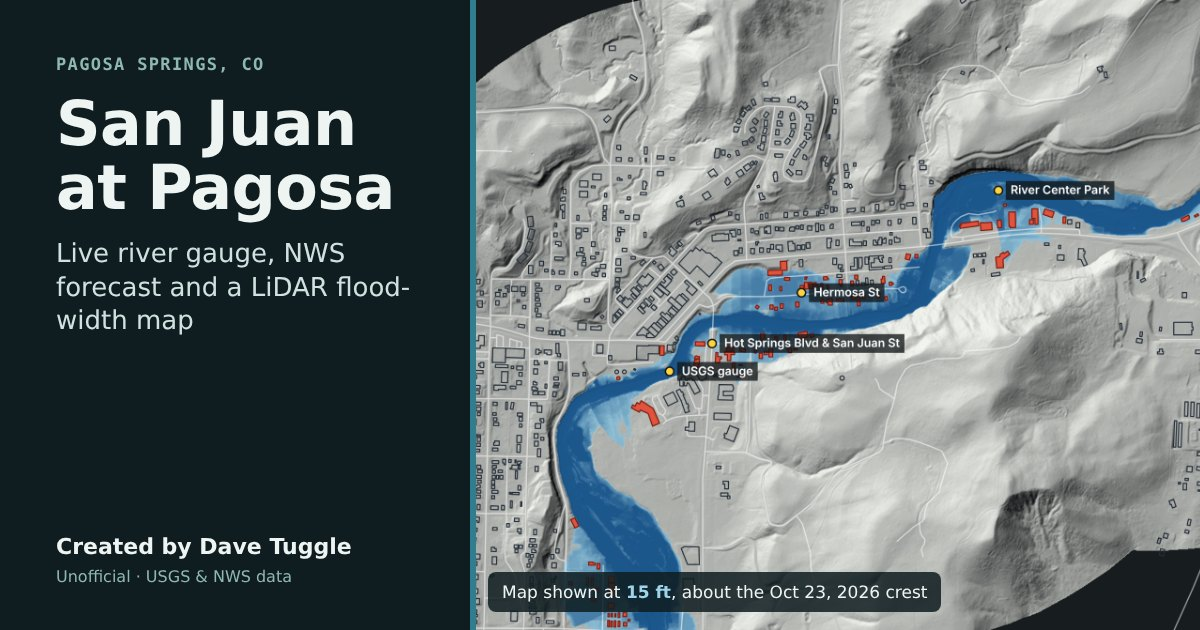
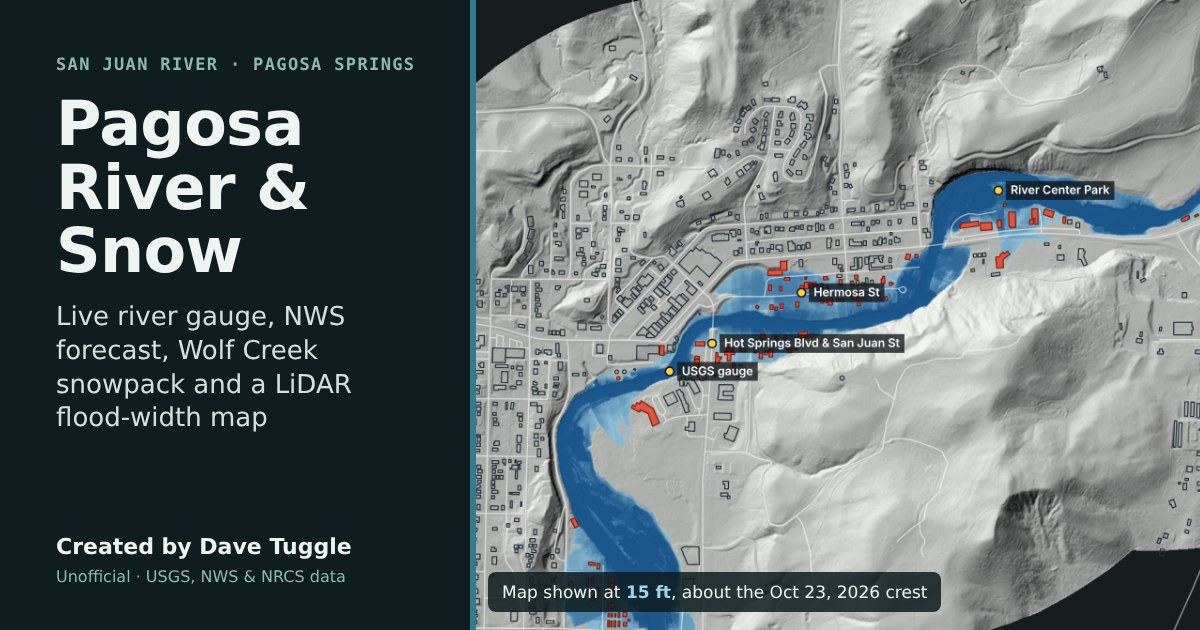
Rename to Pagosa River & Snow, new preview image

Changed region(s): [[0.0308, 0.1508, 0.3392, 0.6937], [0.0617, 0.0905, 0.3392, 0.1206], [0.1542, 0.9048, 0.2775, 0.9349]]

diff --git a/index.html b/index.html
@@ -4,17 +4,17 @@
 <meta charset="utf-8">
 <meta name="viewport" content="width=device-width,initial-scale=1,viewport-fit=cover">
 <meta name="author" content="Dave Tuggle">
-<title>San Juan at Pagosa</title>
+<title>Pagosa River &amp; Snow</title>
 <link rel="canonical" href="https://elwood67.github.io/san-juan-river/">
 <meta property="og:type" content="website">
 <meta property="og:url" content="https://elwood67.github.io/san-juan-river/">
-<meta property="og:title" content="San Juan at Pagosa">
-<meta property="og:description" content="Live San Juan River gauge and NWS forecast for Pagosa Springs, CO, with a LiDAR flood-width map. Unofficial; follow Town and County alerts. Created by Dave Tuggle.">
+<meta property="og:title" content="Pagosa River &amp; Snow">
+<meta property="og:description" content="Live San Juan River gauge, NWS forecast and Wolf Creek snowpack for Pagosa Springs, CO, with a LiDAR flood-width map. Unofficial; follow Town and County alerts. Created by Dave Tuggle.">
 <meta property="og:image" content="https://elwood67.github.io/san-juan-river/og.jpg">
 <meta property="og:image:type" content="image/jpeg">
 <meta property="og:image:width" content="1200">
 <meta property="og:image:height" content="630">
-<meta property="og:image:alt" content="San Juan at Pagosa: map of downtown Pagosa Springs with the river shown at about the Oct 23, 2026 crest">
+<meta property="og:image:alt" content="Pagosa River &amp; Snow: map of downtown Pagosa Springs with the river shown at about the Oct 23, 2026 crest">
 <meta name="twitter:card" content="summary_large_image">
 <meta name="description" content="Live San Juan River gauge at Pagosa Springs, CO, with flood stages, the NWS forecast and an estimated flood-width map.">
 <style>*,*::before,*::after{box-sizing:border-box}body{margin:0;font:14px/1.5 system-ui,sans-serif}img{max-width:100%}[hidden]{display:none!important}:root{padding-top:env(safe-area-inset-top,0px);padding-bottom:env(safe-area-inset-bottom,0px)}</style>
@@ -150,7 +150,7 @@ section h2{font-family:var(--display);font-weight:700;font-size:20px;margin:0 0 
   <header>
     <div>
       <div class="eyebrow">USGS 09342500 · NWS PSPC2 · Pagosa Springs, CO</div>
-      <h1>San Juan at Pagosa</h1>
+      <h1>Pagosa River &amp; Snow</h1>
     </div>
     <span class="chip" id="chip" style="color:var(--muted)">Waiting for data</span>
   </header>
@@ -230,7 +230,7 @@ section h2{font-family:var(--display);font-weight:700;font-size:20px;margin:0 0 
 
   <div class="foot">
     <div class="byline">Created by Dave Tuggle</div>
-    <div>Readings: <a href="https://waterdata.usgs.gov/monitoring-location/09342500/" target="_blank" rel="noopener">USGS 09342500</a> (15-minute, provisional). Flood stages, crests and forecast: <a href="https://water.noaa.gov/gauges/PSPC2" target="_blank" rel="noopener">NWS PSPC2</a>.</div>
+    <div>Readings: <a href="https://waterdata.usgs.gov/monitoring-location/09342500/" target="_blank" rel="noopener">USGS 09342500</a> (15-minute, provisional). Flood stages, crests and forecast: <a href="https://water.noaa.gov/gauges/PSPC2" target="_blank" rel="noopener">NWS PSPC2</a>. Normal-for-the-date range: <a href="https://waterdata.usgs.gov/monitoring-location/09342500/" target="_blank" rel="noopener">USGS daily statistics</a> and rating curve. Snowpack: <a href="https://wcc.sc.egov.usda.gov/reportGenerator/view/customSingleStationReport/daily/874:co:SNTL/CurrentWY,0/WTEQ::value,SNWD::value,PREC::value,TOBS::value,TMAX::value,TMIN::value,TAVG::value" target="_blank" rel="noopener">NRCS SNOTEL Wolf Creek Summit (874)</a>.</div>
     <div id="footNote"></div>
   </div>
 </div>
